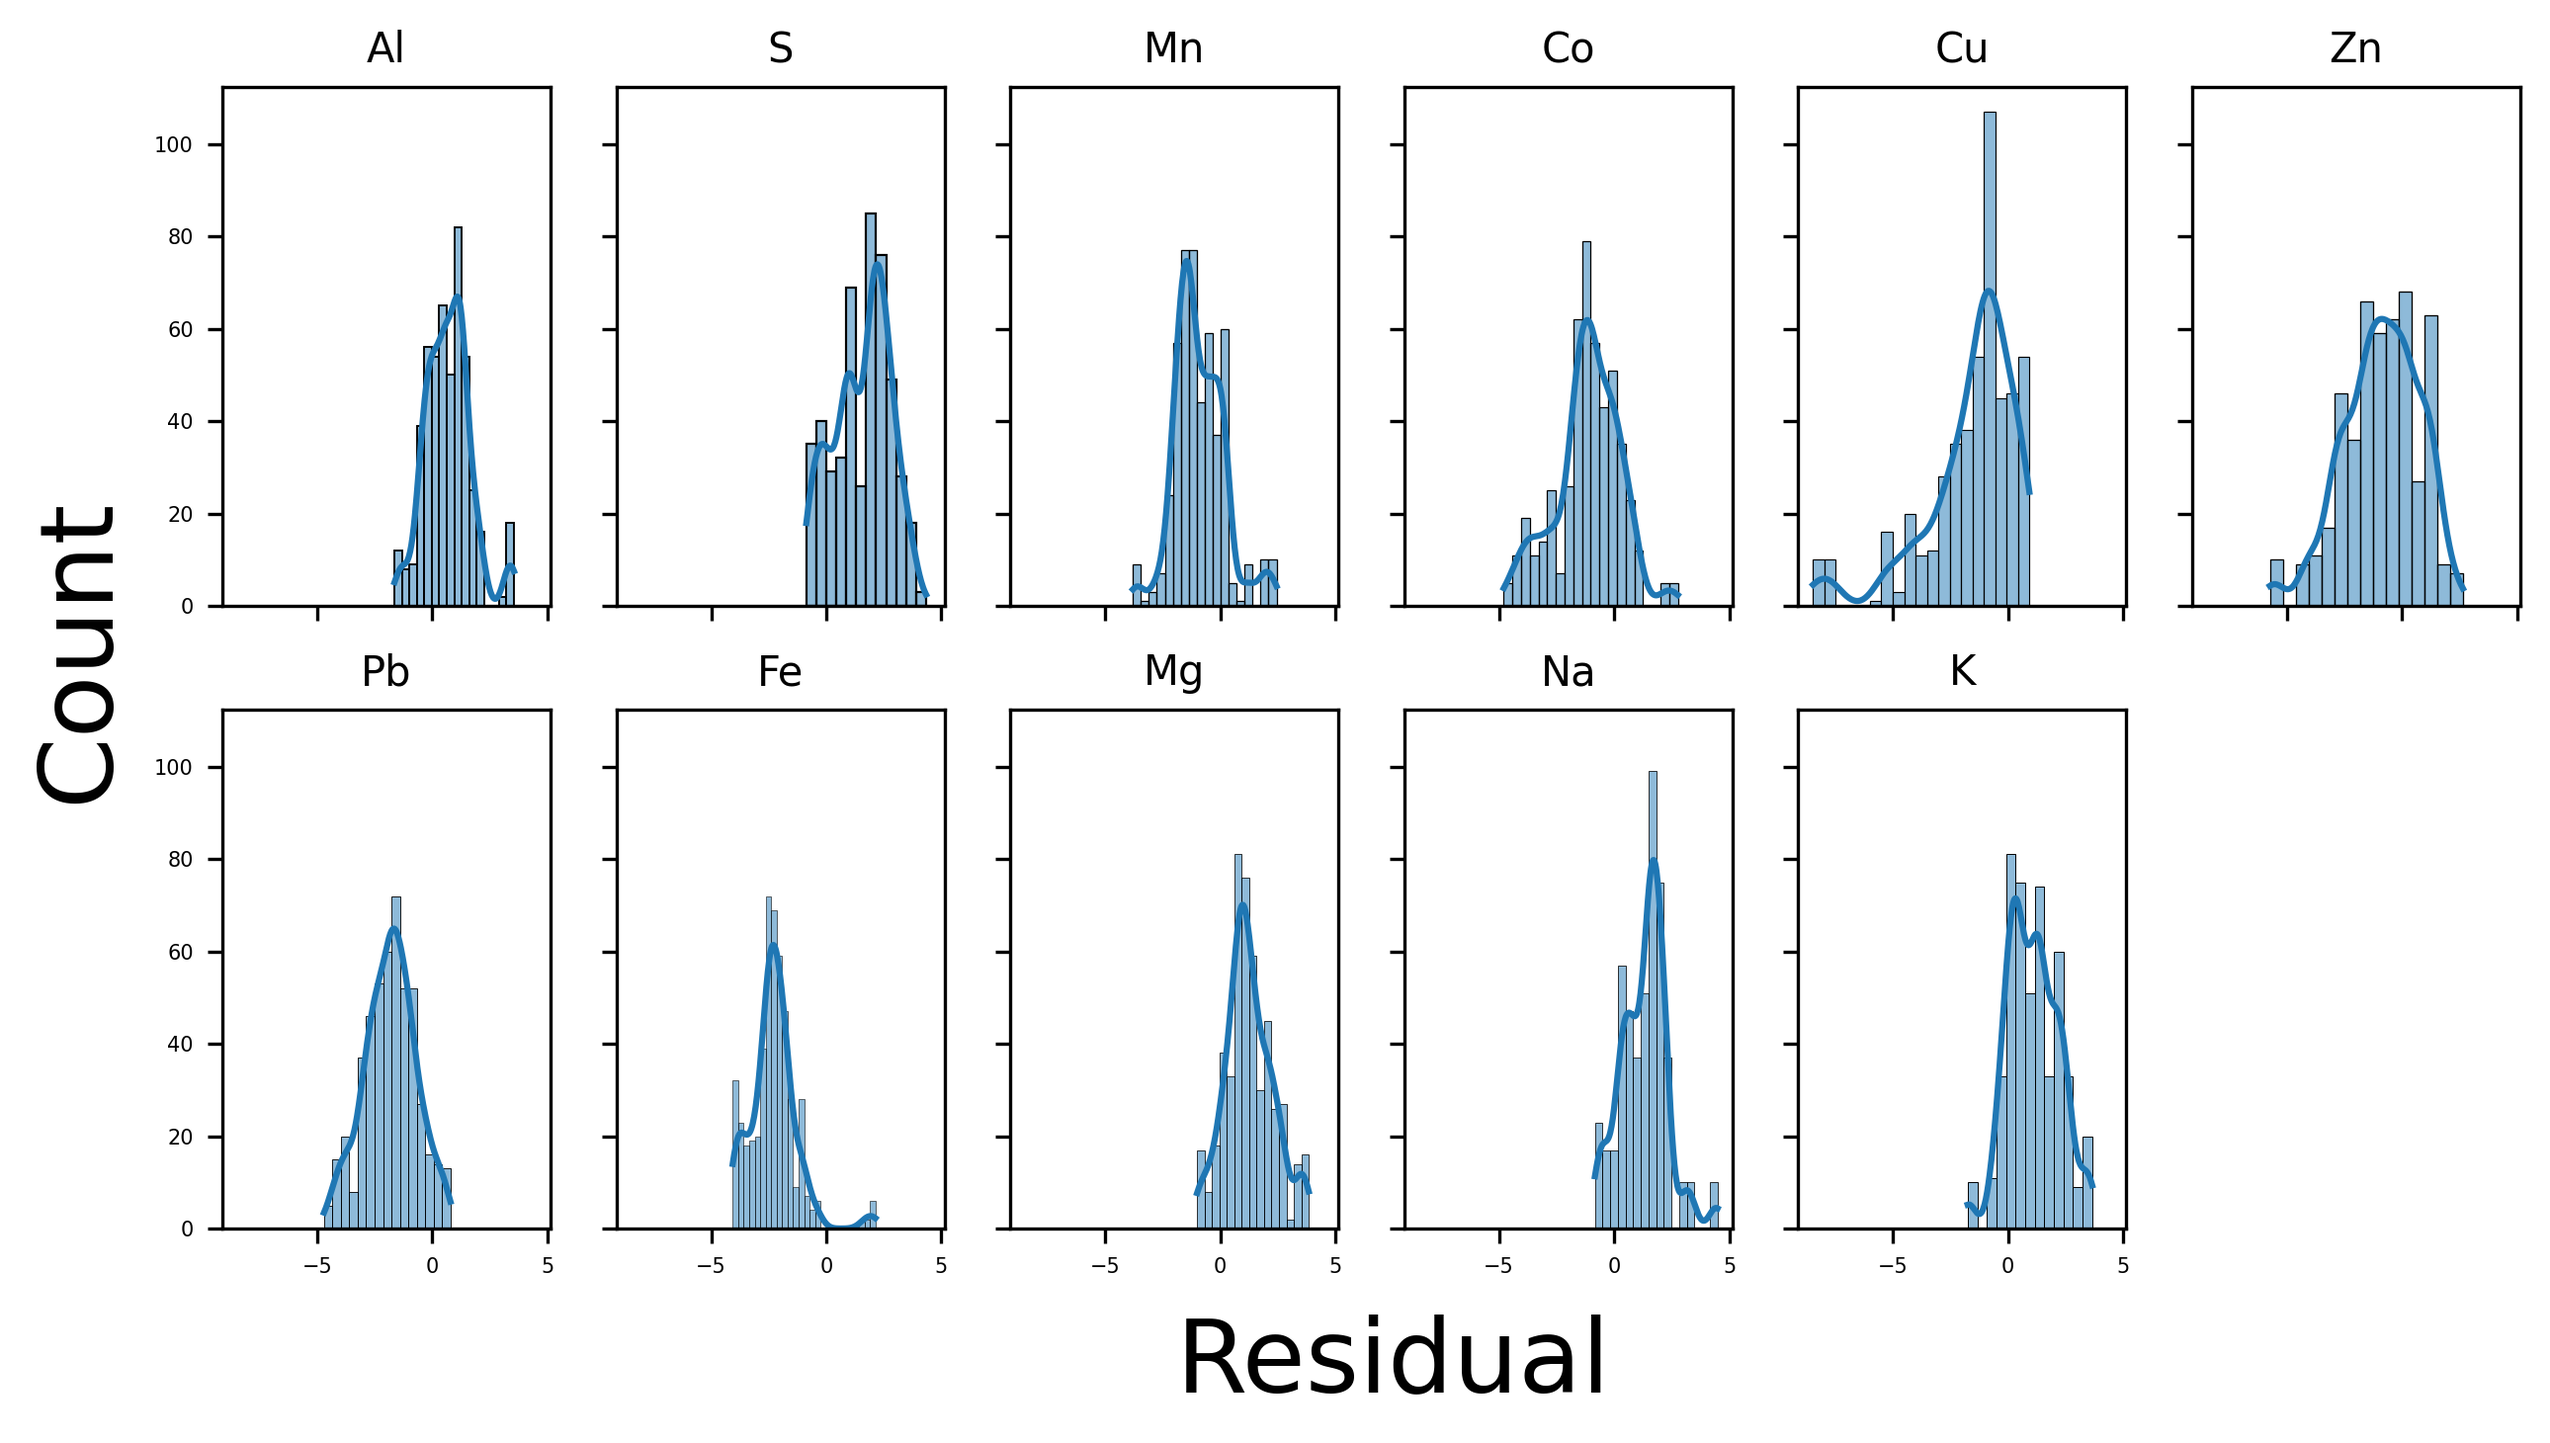
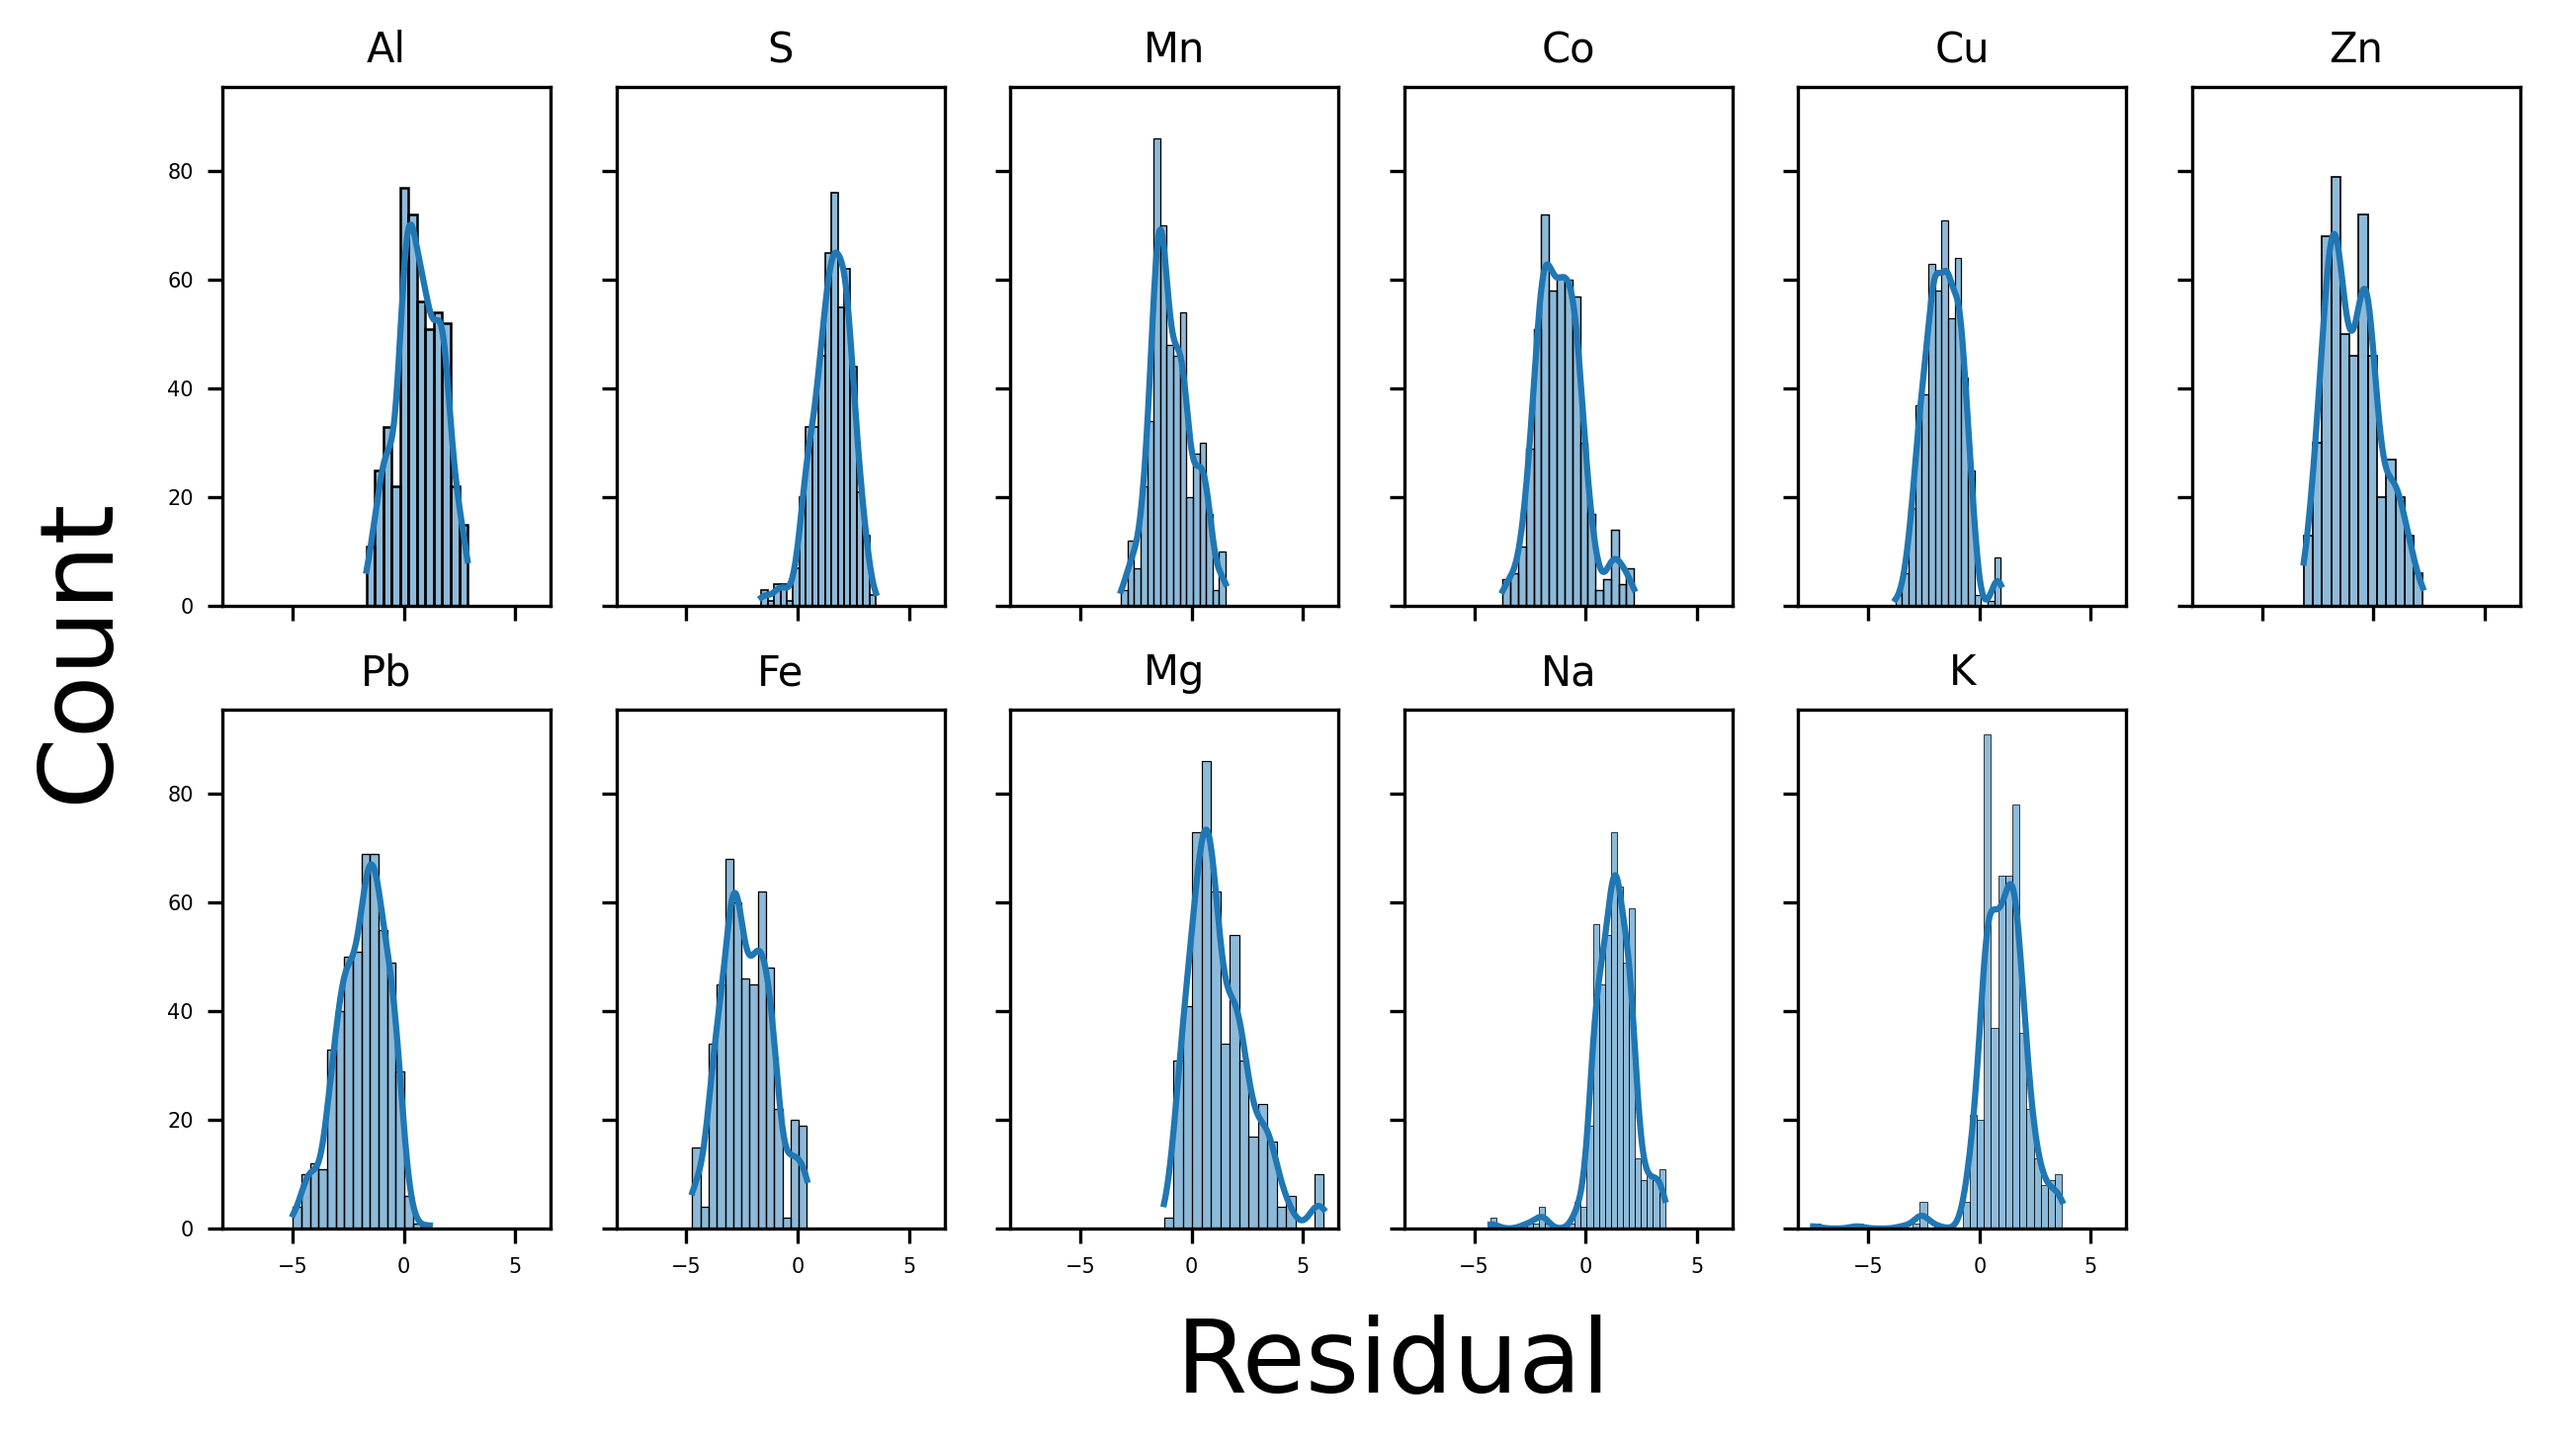
Added comparison with XGBoost and changed surrogate model to indicator instead of mean

diff --git a/src/train_and_evaluate.py b/src/train_and_evaluate.py
@@ -55,8 +55,9 @@ def train_one_epoch(model, loader, loss_fn, optimizer):
 
 def train_model(model, train_loader, val_loader, epochs, loss_fn=CustomLoss(torch.tensor([1/INPUT_SIZE]*INPUT_SIZE).unsqueeze(1))):
 
-    #optimizer = torch.optim.AdamW(model.parameters(), lr=0.001)
-    optimizer = torch.optim.AdamW(model.parameters(), lr=0.000917009720506624, weight_decay=3.0268226950713e-08)
+    #optimizer = torch.optim.AdamW(model.parameters(), lr=0.000917009720506624, weight_decay=3.0268226950713e-08) #optuna_l1_71_3000
+    optimizer = torch.optim.AdamW(model.parameters(), lr=8.184633313770491e-05, weight_decay=6.411548994103367e-05)
+
 
     model, train_losses, val_losses = train_model_optuna(model=model,
                                                         train_loader=train_loader,
@@ -73,6 +74,7 @@ def train_model_optuna(model, train_loader, val_loader, epochs, optimizer, loss_
     epoch_number = 0
 
     train_losses = []
+    corrected_train_losses = []
     val_losses = []
 
     for epoch in range(epochs):
@@ -101,15 +103,29 @@ def train_model_optuna(model, train_loader, val_loader, epochs, optimizer, loss_
         
         avg_vloss = float(running_vloss / len(val_loader))
 
+        ########
+        corrected_running_loss = 0.0
+        with torch.no_grad():
+            for i, tdata in enumerate(train_loader):
+                inputs, labels = tdata
+                outputs = model(inputs)
+                loss = loss_fn(outputs, labels)
+                corrected_running_loss += loss.item()
+        corrected_avg_running_loss = float(corrected_running_loss / len(train_loader))
+        #########
+
         if epoch % 50 == 0:
-            print('LOSS train {} test {}'.format(avg_loss, avg_vloss))
+            #print('LOSS train {} test {}'.format(avg_loss, avg_vloss))
+            print('LOSS train {} test {}'.format(corrected_avg_running_loss, avg_vloss))
         
         train_losses.append(avg_loss)
+        corrected_train_losses.append(corrected_avg_running_loss)
         val_losses.append(avg_vloss)
 
         epoch_number += 1
 
-    return model, train_losses, val_losses
+    #return model, train_losses, val_losses
+    return model, corrected_train_losses, val_losses
 
 
 def visualise_losses(train_losses, val_losses, figsize=(12,5), path_to_save=None):
@@ -178,7 +194,7 @@ def save_model(model, models_path, how_many_outer_to_remove,
 # -----------------------------
 def build_model(trial, input_size=INPUT_SIZE):
 
-    n_layers = trial.suggest_int("n_layers", 5, 7)
+    n_layers = trial.suggest_int("n_layers", 2, 4)
 
     activation_name = trial.suggest_categorical(
         "activation", ["relu", "tanh", "gelu"]

diff --git a/src/model.py b/src/model.py
@@ -18,54 +18,42 @@ class InksNet(nn.Module):
         Dropout probability used after each Linear layer.
     """
 
+    # optuna_l1_71_3000
     # def __init__(self, input_size: int, dropout_prob: float) -> None:
     #     super().__init__()
     #     self.seq = nn.Sequential(
-    #         nn.Linear(input_size, 64),
+    #         nn.Linear(input_size, 93),
+    #         nn.GELU(),
     #         nn.Dropout(dropout_prob),
-    #         nn.BatchNorm1d(64),
-    #         nn.ReLU(),
-    #         nn.Linear(64, 256),
+    #         nn.Linear(93, 586),
+    #         nn.GELU(),
     #         nn.Dropout(dropout_prob),
-    #         nn.BatchNorm1d(256),
-    #         nn.ReLU(),
-    #         nn.Linear(256, 1024),
+    #         nn.Linear(586, 660),
+    #         nn.GELU(),
     #         nn.Dropout(dropout_prob),
-    #         nn.BatchNorm1d(1024),
-    #         nn.ReLU(),
-    #         nn.Linear(1024, 256),
+    #         nn.Linear(660, 743),
+    #         nn.GELU(),
     #         nn.Dropout(dropout_prob),
-    #         nn.BatchNorm1d(256),
-    #         nn.ReLU(),
-    #         nn.Linear(256, 64),
+    #         nn.Linear(743, 105),
+    #         nn.GELU(),
     #         nn.Dropout(dropout_prob),
-    #         nn.BatchNorm1d(64),
-    #         nn.ReLU(),
-    #         nn.Linear(64, input_size),
+    #         nn.Linear(105, 893),
+    #         nn.GELU(),
+    #         nn.Dropout(dropout_prob),
+    #         nn.Linear(893, input_size),
     #     )
+
 
     def __init__(self, input_size: int, dropout_prob: float) -> None:
         super().__init__()
         self.seq = nn.Sequential(
-            nn.Linear(input_size, 93),
+            nn.Linear(input_size, 23),
             nn.GELU(),
             nn.Dropout(dropout_prob),
-            nn.Linear(93, 586),
+            nn.Linear(23, 92),
             nn.GELU(),
             nn.Dropout(dropout_prob),
-            nn.Linear(586, 660),
-            nn.GELU(),
-            nn.Dropout(dropout_prob),
-            nn.Linear(660, 743),
-            nn.GELU(),
-            nn.Dropout(dropout_prob),
-            nn.Linear(743, 105),
-            nn.GELU(),
-            nn.Dropout(dropout_prob),
-            nn.Linear(105, 893),
-            nn.GELU(),
-            nn.Dropout(dropout_prob),
-            nn.Linear(893, input_size),
+            nn.Linear(92, input_size),
         )
 
 

diff --git a/analysis/4_5_comparison_with_benchmark.py b/analysis/4_5_comparison_with_benchmark.py
@@ -9,7 +9,7 @@ import json
 with open('../config.json', 'r') as f:
     config = json.load(f)
 
-mode = "benchmark_sur"
+mode = "benchmark_xgboost"
 
 PREPROCESSING_METHOD = config["preprocessing_method"]
 HOW_MANY_OUTER_TO_REMOVE = config["how_many_outer_to_remove"]
@@ -41,7 +41,8 @@ train_loader, val_loader, test_loader, data_list, original_labels = prepare_trai
                                                                         preprocessing_method = PREPROCESSING_METHOD, 
                                                                         return_data=True,
                                                                         normalisation_to_Fe=NORMALISATION_TO_FE,
-                                                                        return_original_labels=True
+                                                                        return_original_labels=True,
+                                                                        random_state=3
                                                                         )
 
 original_labels = get_sample_number_in_group(original_labels)
@@ -56,6 +57,7 @@ if mode == "benchmark_rf":
     # Random Forest Regressor
     RF_regressor = RandomForestRegressor(
                                         n_estimators=100,
+                                        criterion='absolute_error',
                                         random_state=3,
                                         oob_score=True
                                         )
@@ -65,10 +67,21 @@ if mode == "benchmark_rf":
     # Prediction on test set
     outputs = RF_regressor.predict(X_test)
 
+
+elif mode == "benchmark_xgboost":
+    
+    xgboost_model = XGBRegressor(
+        multi_strategy="multi_output_tree"
+    )
+
+    xgboost_model.fit(X_train, y_train) 
+    outputs = xgboost_model.predict(X_test)
+
 elif mode == "benchmark_sur":
 
-    outputs = np.mean(X_test, axis=0)
-    outputs = np.tile(outputs, (y_test.shape[0], 1))
+    outputs = X_test
+    # outputs = np.mean(X_test, axis=0)
+    # outputs = np.tile(outputs, (y_test.shape[0], 1))
 
 labels = y_test
 difference = abs(outputs-labels)
